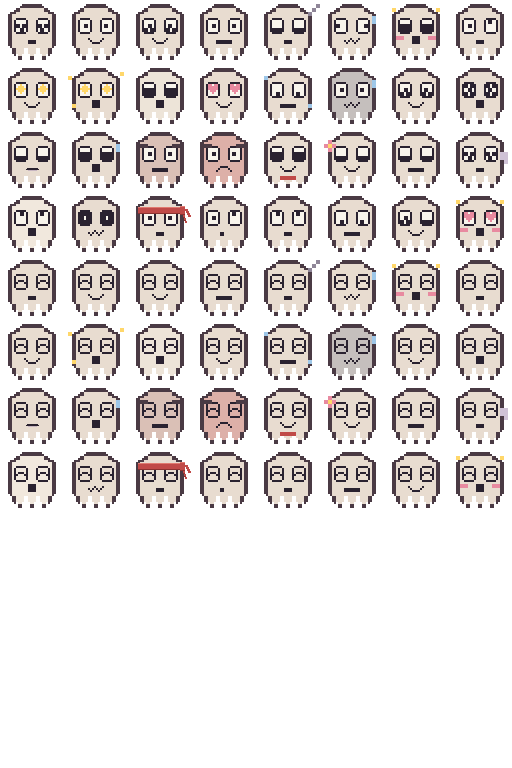
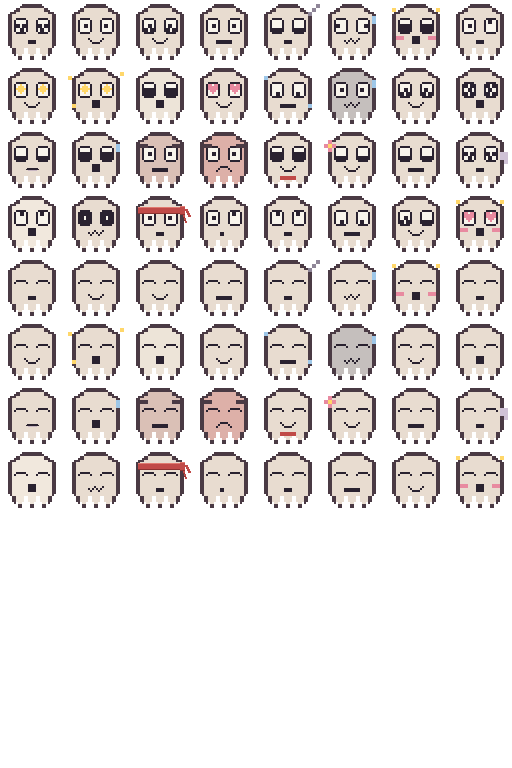
fix: a blink compresses the whole socket, outline included
The blink frame drew a lid inside the still-open socket ring. Now the ring
itself closes: one full-width midline stroke with dipping ends, skin above
and below - the outline squeezed shut, as an eye actually does.

diff --git a/scripts/gen-sepia.js b/scripts/gen-sepia.js
@@ -106,13 +106,16 @@ function drawEyes(out, lp, rp, blink) {
   [[8, lp, false], [19, rp, true]].forEach(spec => {
     const bx = spec[0], preset = spec[1], mir = spec[2];
     const x0 = bx - 1, x1 = bx + 5, y0 = 9, y1 = 16;           // socket ring bounds; whites bx..bx+4, rows 10-15
-    for (let x = x0 + 1; x < x1; x++) { out.push([x, y0, "p"], [x, y1, "p"]); }
-    for (let y = y0 + 1; y < y1; y++) { out.push([x0, y, "p"], [x1, y, "p"]); }
     if (blink) {
-      out.push([bx, 13, "p"], [bx + 4, 13, "p"]);              // curved lid inside the socket
-      for (let x = bx + 1; x <= bx + 3; x++) out.push([x, 12, "p"]);
+      // a blink compresses the WHOLE socket, outline included — not a lid framed
+      // inside an open ring (the maintainer's catch). One full-width stroke at the
+      // eye's midline, ends dipping: the outline squeezed shut.
+      out.push([x0, 13, "p"], [x1, 13, "p"]);
+      for (let x = x0 + 1; x < x1; x++) out.push([x, 12, "p"]);
       return;
     }
+    for (let x = x0 + 1; x < x1; x++) { out.push([x, y0, "p"], [x, y1, "p"]); }
+    for (let y = y0 + 1; y < y1; y++) { out.push([x0, y, "p"], [x1, y, "p"]); }
     for (let y = 10; y <= 15; y++) for (let x = bx; x <= bx + 4; x++) out.push([x, y, "W"]);
     if (preset === "heart" || preset === "star") {
       (preset === "heart" ? HEARTR : STARR).forEach(q =>